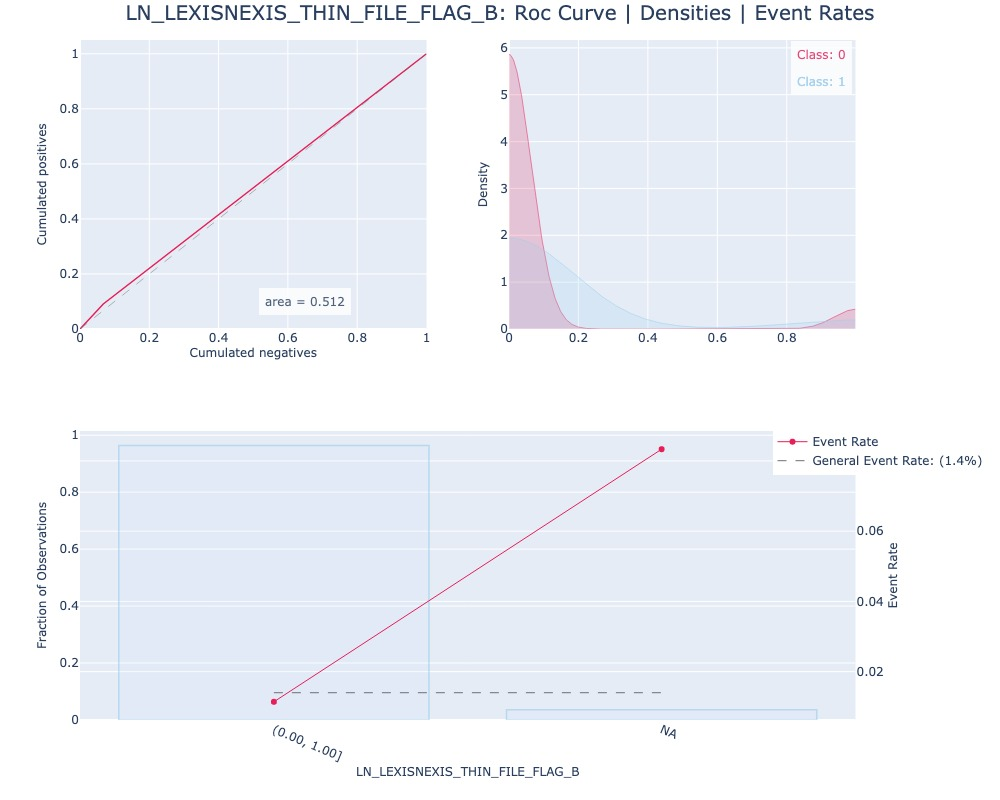
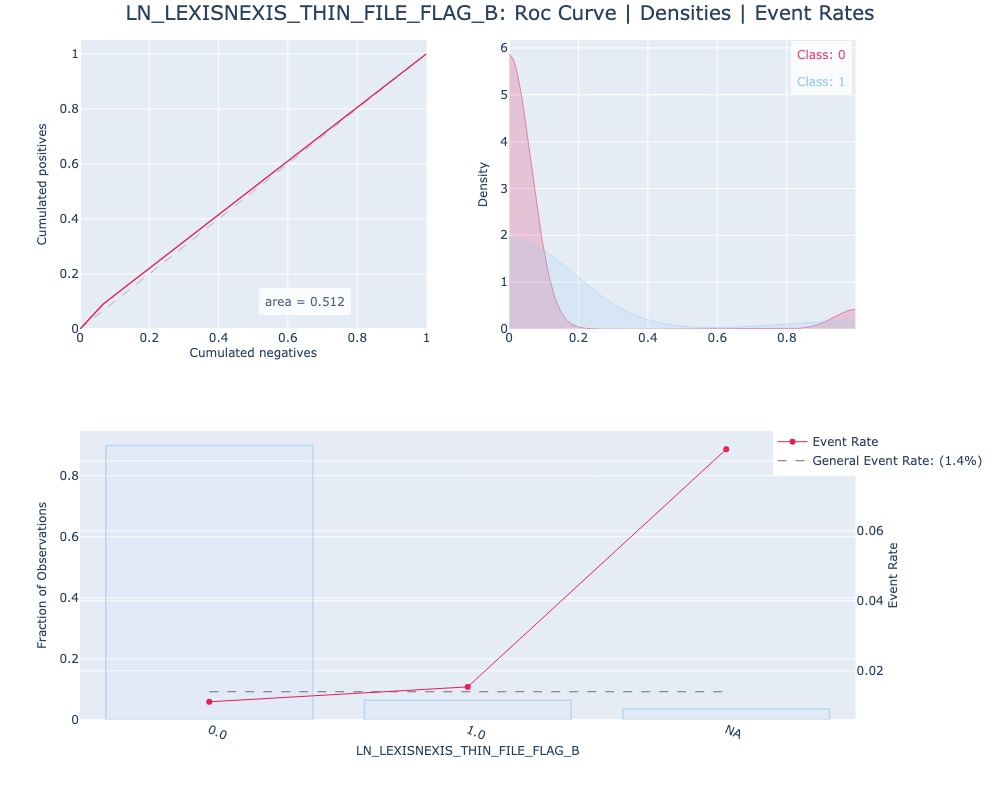
added support for categorical features

diff --git a/plottah/plots/BinEventRatePlot.py b/plottah/plots/BinEventRatePlot.py
@@ -11,17 +11,18 @@ from plottah.utils import get_bins, get_min_max_adj, get_labels_from_bins
 
 @dataclass
 class CategoricalBinner:
-    _labels: list = field(default_factory=None)
+    _labels: list = field(default_factory=lambda: None)
 
     def get_labels(self):
         return self._labels.copy()
 
-    def add_bins(self, df: pd.DataFrame, feature_col: str):
+    def add_bins(self, df: pd.DataFrame, feature_col: str) -> pd.DataFrame:
         # Extract unique values
         unique_vals = df[feature_col].sort_values().unique()
 
         # Convert sorted elements to int
-        mapping = pd.factorize(unique_vals, na_sentinel=len(unique_vals))
+        # mapping = pd.factorize(unique_vals, na_sentinel=len(unique_vals))
+        mapping = pd.factorize(unique_vals, use_na_sentinel=False)
 
         # Create mapping
         mapping_values = list(mapping[0])
@@ -34,9 +35,102 @@ class CategoricalBinner:
         df = df.assign(bins=df[feature_col].map(mapping_dict))
 
         # Set labels for plotting
-        self._labels = mapping_keys
+        self._labels = [str(key) for key in mapping_keys]
+        self._labels[-1] = "NA"
 
-        return df
+        return df, self._labels
+
+
+@dataclass
+class StandardBinner:
+    _labels: list = field(default_factory=lambda: None)
+
+    def get_labels(self):
+        return self._labels.copy()
+
+    def add_bins(
+        self,
+        df: pd.DataFrame,
+        feature_col: str,
+        n_bins: int,
+        bins=None,
+        method="quantile",
+    ) -> pd.DataFrame:
+        # Get unadjusted min and max
+        min_val, max_val = get_min_max_adj(df, feature_col)
+        min_val_adj, max_val_adj = get_min_max_adj(df, feature_col)
+
+        ## BINNING
+        bins = (
+            bins
+            if bins is not None
+            else get_bins(
+                df,
+                feature_col,
+                min_val_adj,
+                max_val_adj,
+                n_bins=n_bins,
+                method=method,
+            )
+        )
+
+        # convert type to list
+        bins = list(bins)
+
+        # set first and last value back to min and max before imputing
+        bins[0] = min_val
+        bins[n_bins - 1] = max_val
+
+        # update number of bins
+        assert n_bins == len(bins)
+
+        # Create bins (return None if binning is not successfull)
+        try:
+            # create new column indicating what bin record belongs to
+            df = df.assign(
+                bins=pd.cut(
+                    x=df.loc[:, feature_col],
+                    bins=bins,
+                    include_lowest=True,
+                    right=True,
+                    labels=False,
+                )
+            )
+        except Exception as e:
+            raise ValueError("{self.feature_col} cannot be binned")
+
+        # Create plot labels: [(4, 6), (6, 10), ...]
+        self._labels = get_labels_from_bins(bins)
+
+        ## CLIPPING
+
+        # Clip values according to min/max values
+        df[feature_col].clip(lower=min_val, upper=max_val, inplace=True)
+
+        # Ensure clipping values does not remove all but a single value
+        if df[feature_col].nunique() < 2:
+            raise ValueError(
+                "{self.feature_col} contains less than 2 features after clipping outliers!!"
+            )
+
+        ## NA's
+
+        # Handle NAs
+        if df["bins"].isna().sum() > 0:
+            # replace the NA bin w/ n_bins - 1
+            df.loc[:, "bins"] = df.loc[:, "bins"].where(
+                ~df.loc[:, "bins"].isna(), n_bins - 1
+            )
+            self._labels.append("NA")
+            n_bins += 1
+
+        # Convert bins to categories
+        df.bins = df.bins.astype("category")
+
+        # Set all categories
+        df.bins = df.bins.cat.set_categories(list(range(n_bins - 1)))
+
+        return df, self._labels
 
 
 @dataclass
@@ -50,6 +144,9 @@ class BinEventRatePlot(PlotProtocol):
 
     # set hover setting
     hoverinfo: str = field(default_factory=lambda: "skip")
+
+    # set default feature type
+    feature_type: str = field(default_factory=lambda: "float")
 
     def do_math(
         self,
@@ -82,80 +179,15 @@ class BinEventRatePlot(PlotProtocol):
         n_unique_feat_vals = df[feature_col].nunique()
         self.n_bins = np.minimum(n_unique_feat_vals, self.n_bins)
 
-        # Get unadjusted min and max
-        min_val, max_val = get_min_max_adj(self.df, feature_col)
-        min_val_adj, max_val_adj = get_min_max_adj(self.df, feature_col)
-
-        ## BINNING
-        self.bins = (
-            self.bins
-            if self.bins is not None
-            else get_bins(
-                self.df,
-                self.feature_col,
-                self.target_col,
-                min_val_adj,
-                max_val_adj,
-                n_bins=self.n_bins,
-                method=method,
+        if self.feature_type == "categorical":
+            print("using categorical binner")
+            binner = CategoricalBinner()
+            self.df, self.labels = binner.add_bins(self.df, self.feature_col)
+        else:
+            binner = StandardBinner()
+            self.df, self.labels = binner.add_bins(
+                self.df, self.feature_col, self.n_bins, self.bins, method=method
             )
-        )
-
-        # convert type to list
-        self.bins = list(self.bins)
-
-        # set first and last value back to min and max before imputing
-        self.bins[0] = min_val
-        self.bins[self.n_bins - 1] = max_val
-
-        # update number of bins
-        assert self.n_bins == len(self.bins)
-
-        # Create bins (return None if binning is not successfull)
-        try:
-            # create new column indicating what bin record belongs to
-            self.df = self.df.assign(
-                bins=pd.cut(
-                    x=self.df.loc[:, feature_col],
-                    bins=self.bins,
-                    include_lowest=True,
-                    right=True,
-                    labels=False,
-                )
-            )
-        except Exception as e:
-            raise ValueError("{self.feature_col} cannot be binned")
-
-        # Create plot labels: [(4, 6), (6, 10), ...]
-        self.labels = get_labels_from_bins(self.bins)
-
-        ## CLIPPING
-
-        # Clip values according to min/max values
-        df[feature_col].clip(lower=min_val, upper=max_val, inplace=True)
-
-        # Ensure clipping values does not remove all but a single value
-        if df[feature_col].nunique() < 2:
-            raise ValueError(
-                "{self.feature_col} contains less than 2 features after clipping outliers!!"
-            )
-
-        ## NA's
-
-        # Handle NAs
-        if self.df["bins"].isna().sum() > 0:
-            # replace the NA bin w/ n_bins - 1
-            self.df.loc[:, "bins"] = self.df.loc[:, "bins"].where(
-                ~self.df.loc[:, "bins"].isna(), self.n_bins - 1
-            )
-            self.labels.append("NA")
-            self.n_bins += 1
-
-        # Convert bins to categories
-        self.df.bins = self.df.bins.astype("category")
-
-        # Set all categories
-        self.df.bins = self.df.bins.cat.set_categories(list(range(self.n_bins - 1)))
 
         # Group into bins and calculate required metrics
         self.df_binned = self.df.groupby("bins").agg(

diff --git a/plottah/plot_builder/builders.py b/plottah/plot_builder/builders.py
@@ -12,6 +12,7 @@ def build_univariate_plot(
     df,
     feature_col: str,
     target: str,
+    feature_type: str = "float",
     colors: PlotColors = PlotColors(),
     show_plot: bool = True,
     hoverinfo="all",
@@ -28,7 +29,11 @@ def build_univariate_plot(
     roc_plot = RocCurvePlot(hoverinfo=hoverinfo, colors=colors)
     dist_plot = DistPlot(hoverinfo=hoverinfo, colors=colors)
     event_plot = BinEventRatePlot(
-        hoverinfo=hoverinfo, colors=colors, n_bins=n_bins, bins=bins
+        hoverinfo=hoverinfo,
+        colors=colors,
+        n_bins=n_bins,
+        bins=bins,
+        feature_type=feature_type,
     )
 
     specs = (
@@ -51,6 +56,7 @@ def build_univariate_plots(
     df,
     features: list,
     target: str,
+    feature_types: dict,
     save_directory: pathlib.Path() = None,
     colors: PlotColors = PlotColors(),
     show_plot: bool = False,
@@ -86,9 +92,10 @@ def build_univariate_plots(
             raise ValueError(f"{feature} not in columns of dataframe")
 
         fig = build_univariate_plot(
-            df,
-            feature,
-            target,
+            df=df,
+            feature_col=feature,
+            target=target,
+            feature_type=feature_types[feature],
             colors=colors,
             show_plot=show_plot,
             hoverinfo=hoverinfo,

diff --git a/plottah/__main__.py b/plottah/__main__.py
@@ -25,11 +25,19 @@ def main():
         for feature_schema in settings.features
     }
 
+    feature_types = {
+        feature_schema.name: feature_schema.type
+        if feature_schema.type is not None
+        else "float"
+        for feature_schema in settings.features
+    }
+
     build_univariate_plots(
-        pd.read_csv(settings.file_path),
-        features,
-        settings.target,
-        settings.output_path,
+        df=pd.read_csv(settings.file_path),
+        features=features,
+        target=settings.target,
+        feature_types=feature_types,
+        save_directory=settings.output_path,
         colors=color_palette,
         bins=bins,
     )

diff --git a/plottah/config.py b/plottah/config.py
@@ -6,7 +6,7 @@ import re
 from pathlib import Path
 from pydantic import BaseModel, ValidationError, validator
 
-
+# use this over Literal to make custom error containing more info
 ALLOWED_TYPES = ["float", "int", "categorical"]
 ROOT_DIR = Path(__file__).parent.parent
 
@@ -41,6 +41,7 @@ class FeatureSchema(BaseModel):
             raise ValueError(
                 f'Type for {values["name"]} must be in {ALLOWED_TYPES}, you passed type: {v}'
             )
+        return v
 
 
 class Settings(BaseModel):

diff --git a/plottah/utils.py b/plottah/utils.py
@@ -67,7 +67,6 @@ def remove_or_impute_nan_infs(
 def get_bins(
     df: pd.DataFrame,
     feature_col: str,
-    target_col: str,
     min_val_adj: float,
     max_val_adj: float,
     n_bins: int = 10,

diff --git a/setup.py b/setup.py
@@ -1,0 +1,3 @@
+from setuptools import setup, find_packages
+
+setup(name="plottah", version="0.1", packages=find_packages())
